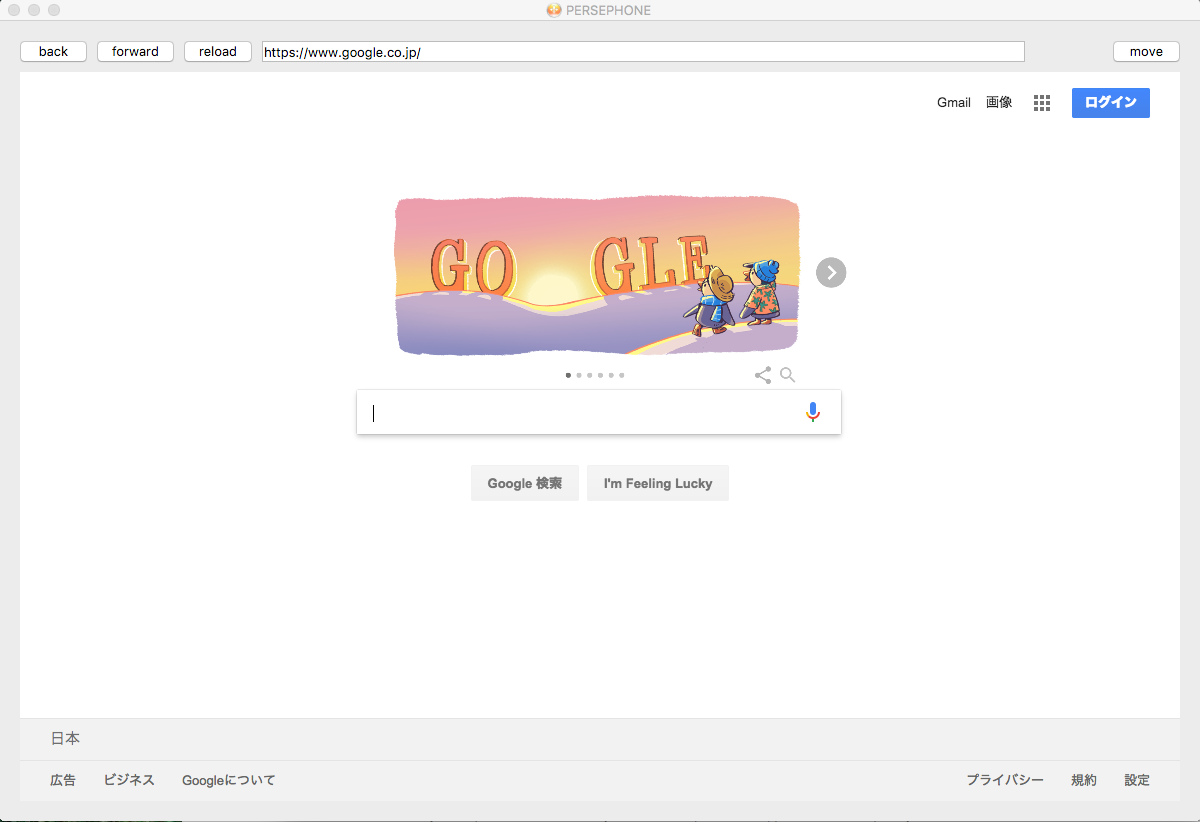
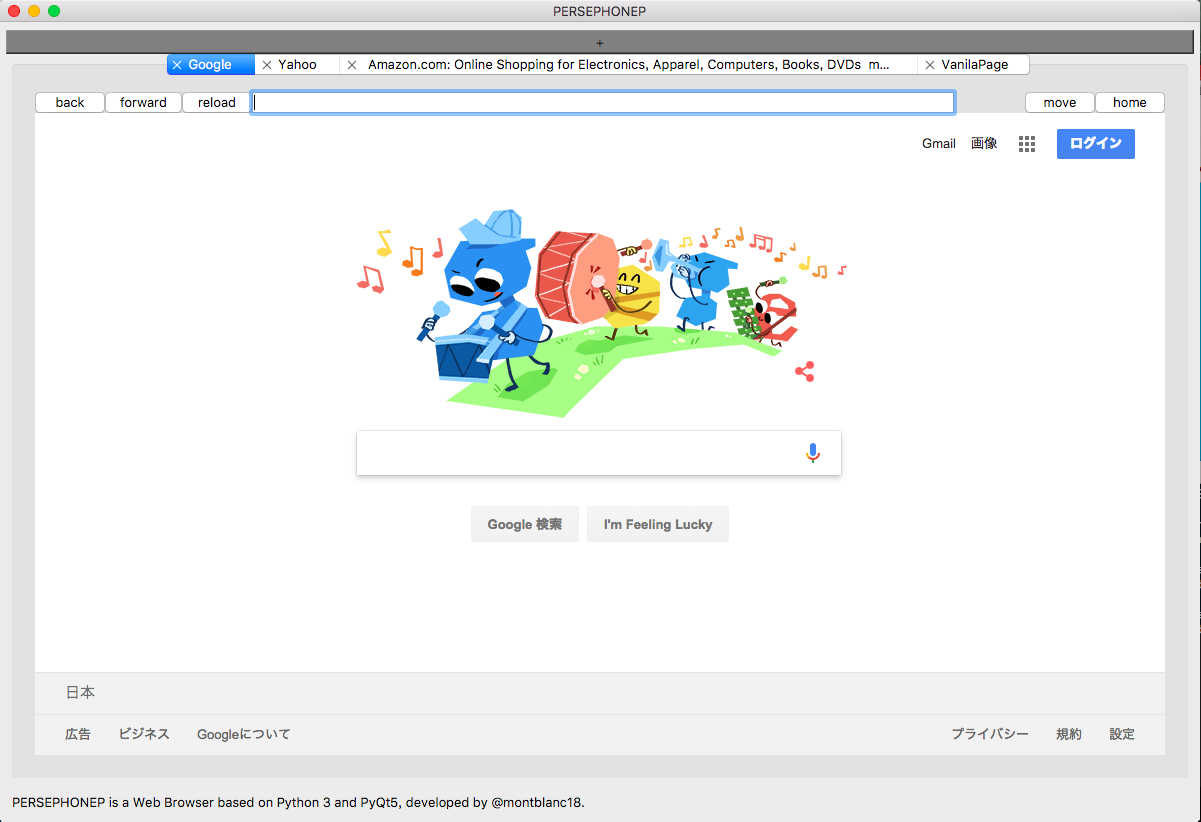
modify some codes and update sample picture.

diff --git a/persephonep.py b/persephonep.py
@@ -48,7 +48,7 @@ class PersephoneTableWidget(QWidget):
         self.add_button = QPushButton('+')
         self.add_button.setStyleSheet('background-color:gray')
         self.add_button.clicked.connect(lambda: self._addTab(len(self.tab))) # add tab to last of index
-        self.app_info = QLabel('PERSEPHONE is a Web Browser based on Python 3 and PyQt5, developed by @montblanc18.')
+        self.app_info = QLabel('%s is a Web Browser based on Python 3 and PyQt5, developed by @montblanc18.' % __program__)
 
         # define the delete tab process
         self.tabs.setTabsClosable(True)
@@ -75,7 +75,7 @@ class PersephoneTableWidget(QWidget):
         # print(index)
         self.tab.append(PersephoneWindow(parent = self))
         self.tabs.addTab(self.tab[-1], '') # do not match tab index & tab num
-        self.tabs.setTabText(index, 'PlainPage')
+        self.tabs.setTabText(index, 'VanilaPage')
         # self.tab[-1].window.titleChanged.connect(lambda: self.tabs.setTabText(self.tabs.currentIndex(), self.tab[self.tabs.currentIndex()].window.title())) # this is too long. So, replace this sentence with below code.
         self.tab[-1].window.titleChanged.connect(self.updateTabName)
         # self.tab[index-1].window.urlChanged.connect(lambda: self.tabs.setTabText(index, self.tab[index-1].window.title())) # too fast to get page title
